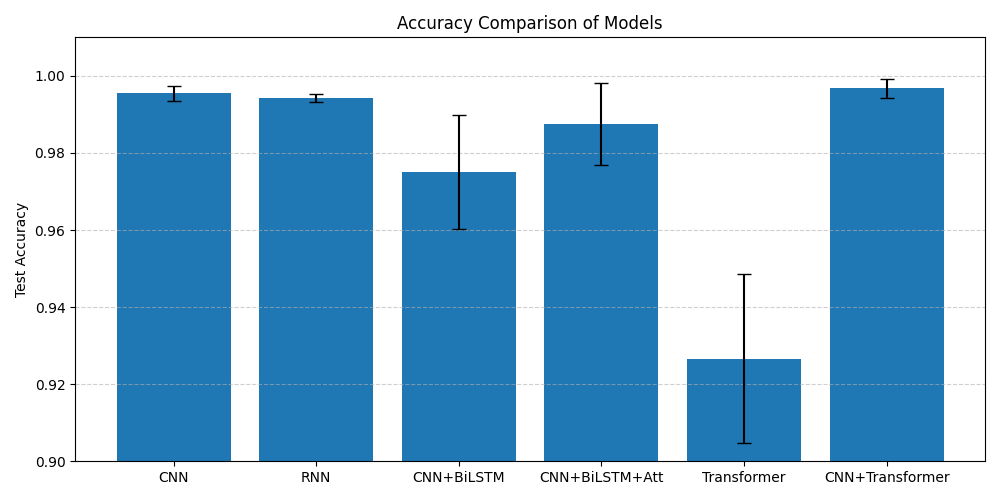
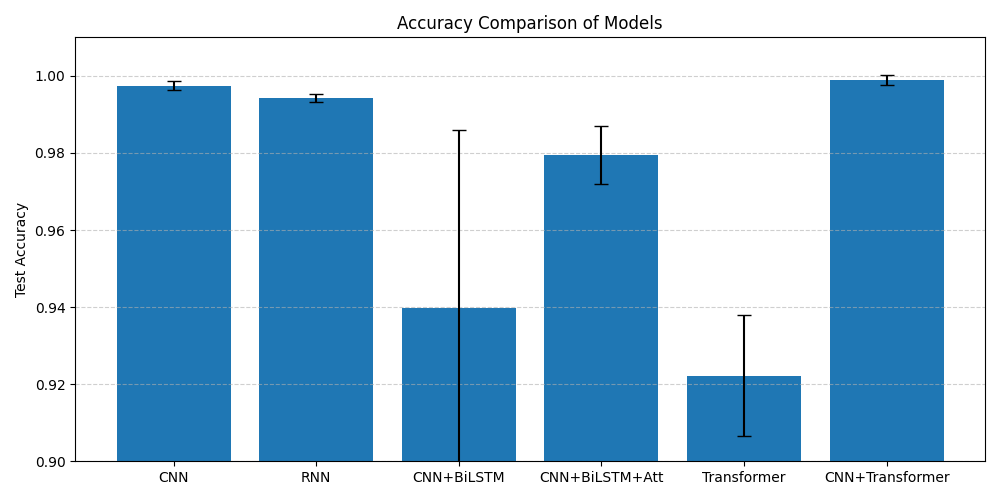
finish the cm in 6 models

diff --git a/scripts/plot_confusion_matrices_all.py b/scripts/plot_confusion_matrices_all.py
@@ -1,0 +1,71 @@
+import os
+import numpy as np
+import matplotlib.pyplot as plt
+from sklearn.metrics import confusion_matrix
+import seaborn as sns
+
+# ============================
+# 配置区（后续只需要改这里）
+# ============================
+RESULTS_ROOT = "results"
+SAVE_DIR = "analysis_results/confusion_matrices"
+CLASS_NAMES = ["Normal", "Ball", "Inner", "Outer"]
+
+MODEL_DIRS = {
+    "CNN": "cnn",
+    "RNN": "rnn_lstm",
+    "CNN+BiLSTM": "cnn_bilstm",
+    "CNN+BiLSTM+Att": "cnn_bilstm_att",
+    "Transformer": "transformer",
+    "CNN+Transformer": "cnn_transformer",
+}
+
+os.makedirs(SAVE_DIR, exist_ok=True)
+
+# ============================
+# 绘图函数
+# ============================
+
+def plot_cm(y_true, y_pred, title, save_path):
+    cm = confusion_matrix(y_true, y_pred)
+    cm_norm = cm.astype('float') / cm.sum(axis=1, keepdims=True)
+
+    plt.figure(figsize=(6, 5))
+    sns.heatmap(
+        cm_norm,
+        annot=True,
+        fmt=".4f",
+        cmap="Blues",
+        xticklabels=CLASS_NAMES,
+        yticklabels=CLASS_NAMES
+    )
+    plt.xlabel("Predicted Label")
+    plt.ylabel("True Label")
+    plt.title(title)
+    plt.tight_layout()
+    plt.savefig(save_path, dpi=300)
+    plt.close()
+
+
+# ============================
+# 主流程
+# ============================
+
+for model_name, folder in MODEL_DIRS.items():
+    model_path = os.path.join(RESULTS_ROOT, folder)
+    y_true_path = os.path.join(model_path, "y_true.npy")
+    y_pred_path = os.path.join(model_path, "y_pred.npy")
+
+    if not (os.path.exists(y_true_path) and os.path.exists(y_pred_path)):
+        print(f"[WARN] {model_name} 缺少 y_true / y_pred，跳过")
+        continue
+
+    y_true = np.load(y_true_path)
+    y_pred = np.load(y_pred_path)
+
+    save_path = os.path.join(SAVE_DIR, f"cm_{folder}.png")
+    plot_cm(y_true, y_pred, f"Confusion Matrix - {model_name}", save_path)
+
+    print(f"[OK] {model_name} 混淆矩阵已保存")
+
+print("\n[DONE] 所有混淆矩阵生成完成")